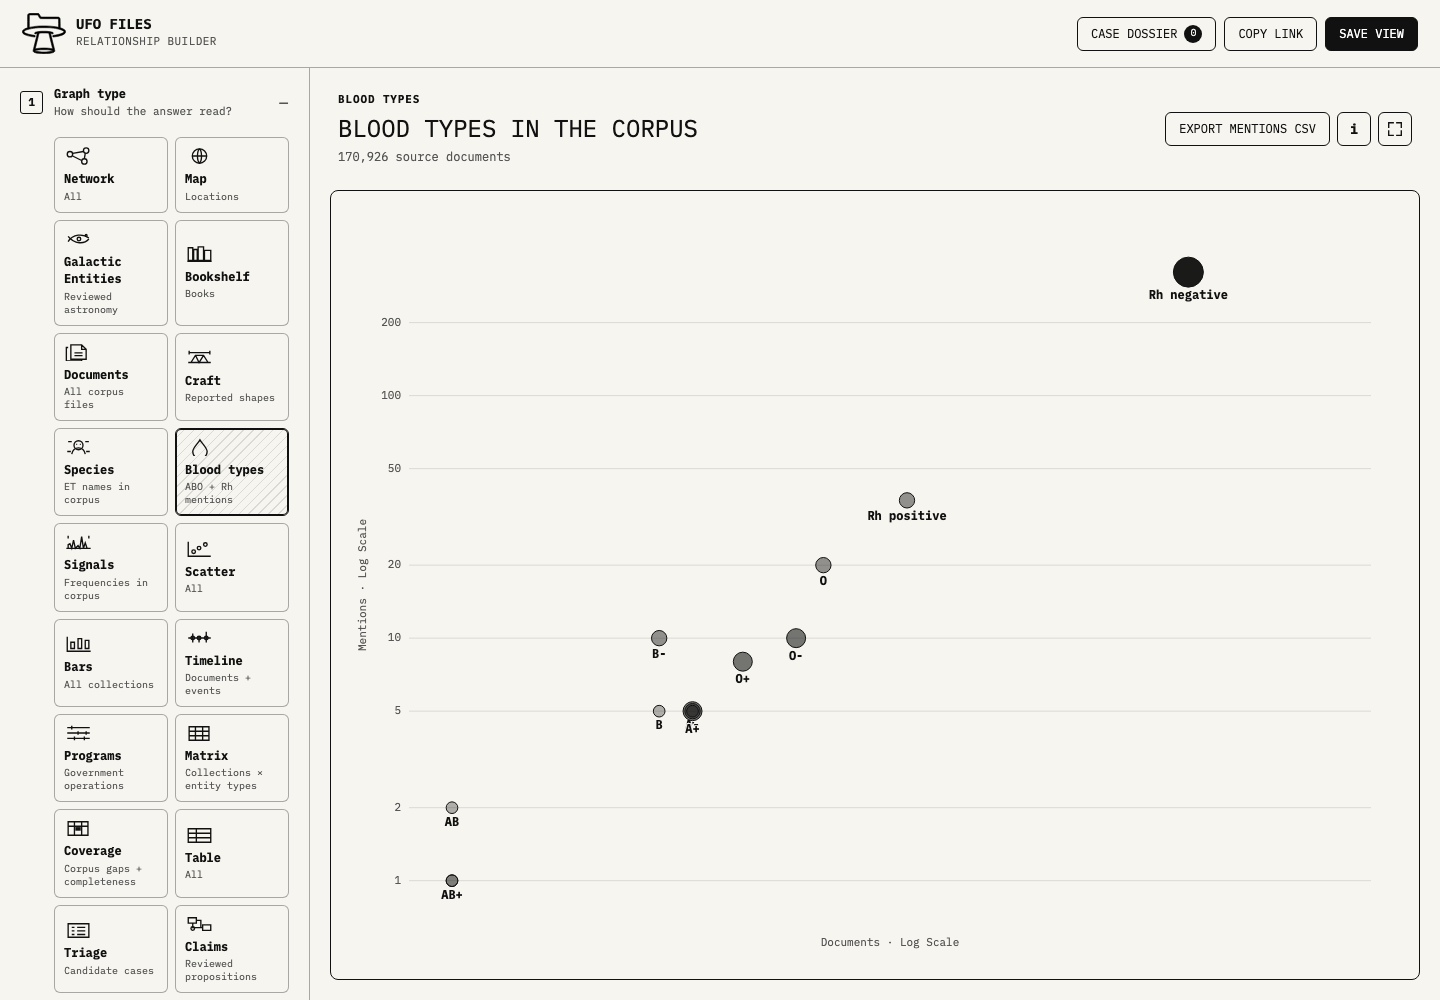
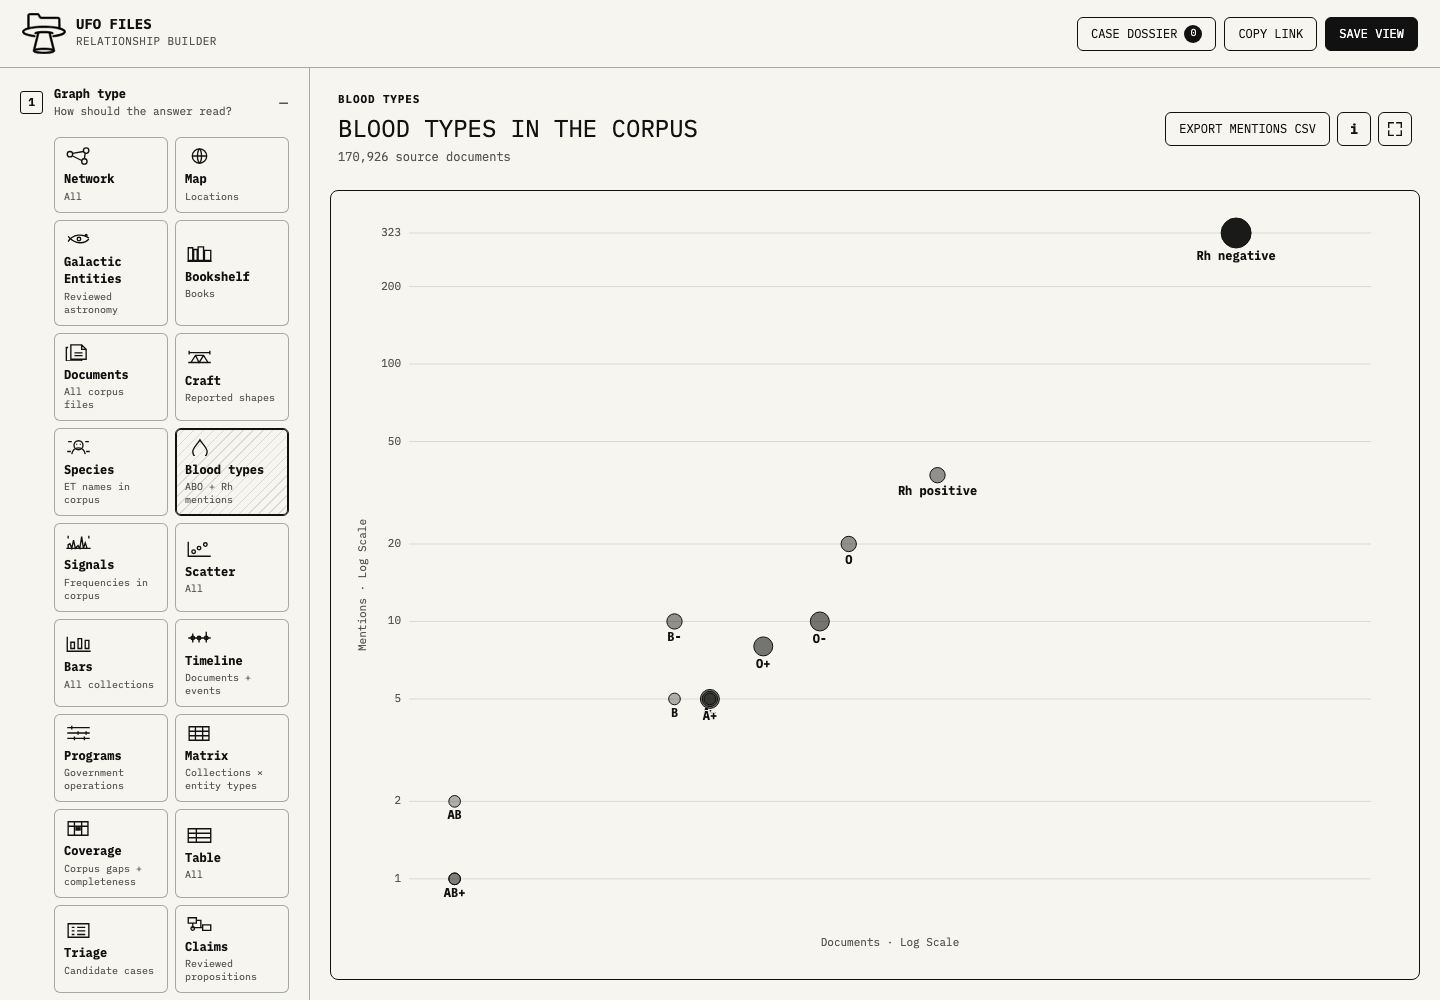
Remove artificial headroom above blood scatter data

diff --git a/app.js b/app.js
@@ -4387,7 +4387,7 @@ function drawBloodScatter(svg, observations, config) {
   const width = Math.max(280, svg.parentElement.clientWidth);
   const height = Math.max(240, viewport.clientHeight - chartTop - bottomPadding);
   const margin = { ...AXIS_MARGIN };
-  const maximum = Math.max(2, ...groups.map(group => group.mentions)) * 1.45;
+  const maximum = Math.max(2, ...groups.map(group => group.mentions));
   const logMin = Math.log10(.75), logMax = Math.log10(maximum);
   const x = value => margin.left + (Math.log10(value) - logMin) / (logMax - logMin) * (width - margin.left - margin.right);
   const y = value => height - margin.bottom - (Math.log10(value) - logMin) / (logMax - logMin) * (height - margin.top - margin.bottom);
@@ -4397,6 +4397,7 @@ function drawBloodScatter(svg, observations, config) {
   const sourceExtent = valueExtent(groups.map(group => ({ sources: group.sources.size })), "sources");
   const ticks = [];
   for (let power = 0; 10 ** power <= maximum; power++) for (const multiplier of [1, 2, 5]) if (multiplier * 10 ** power <= maximum) ticks.push(multiplier * 10 ** power);
+  if (ticks.at(-1) !== maximum) ticks.push(maximum);
   drawAxes(svg, width, height, "Documents · log scale", "Mentions · log scale",
     [.75, maximum], [.75, maximum], {}, { yTicks: ticks.slice().reverse(), yPosition: y });
   groups.forEach(group => {
